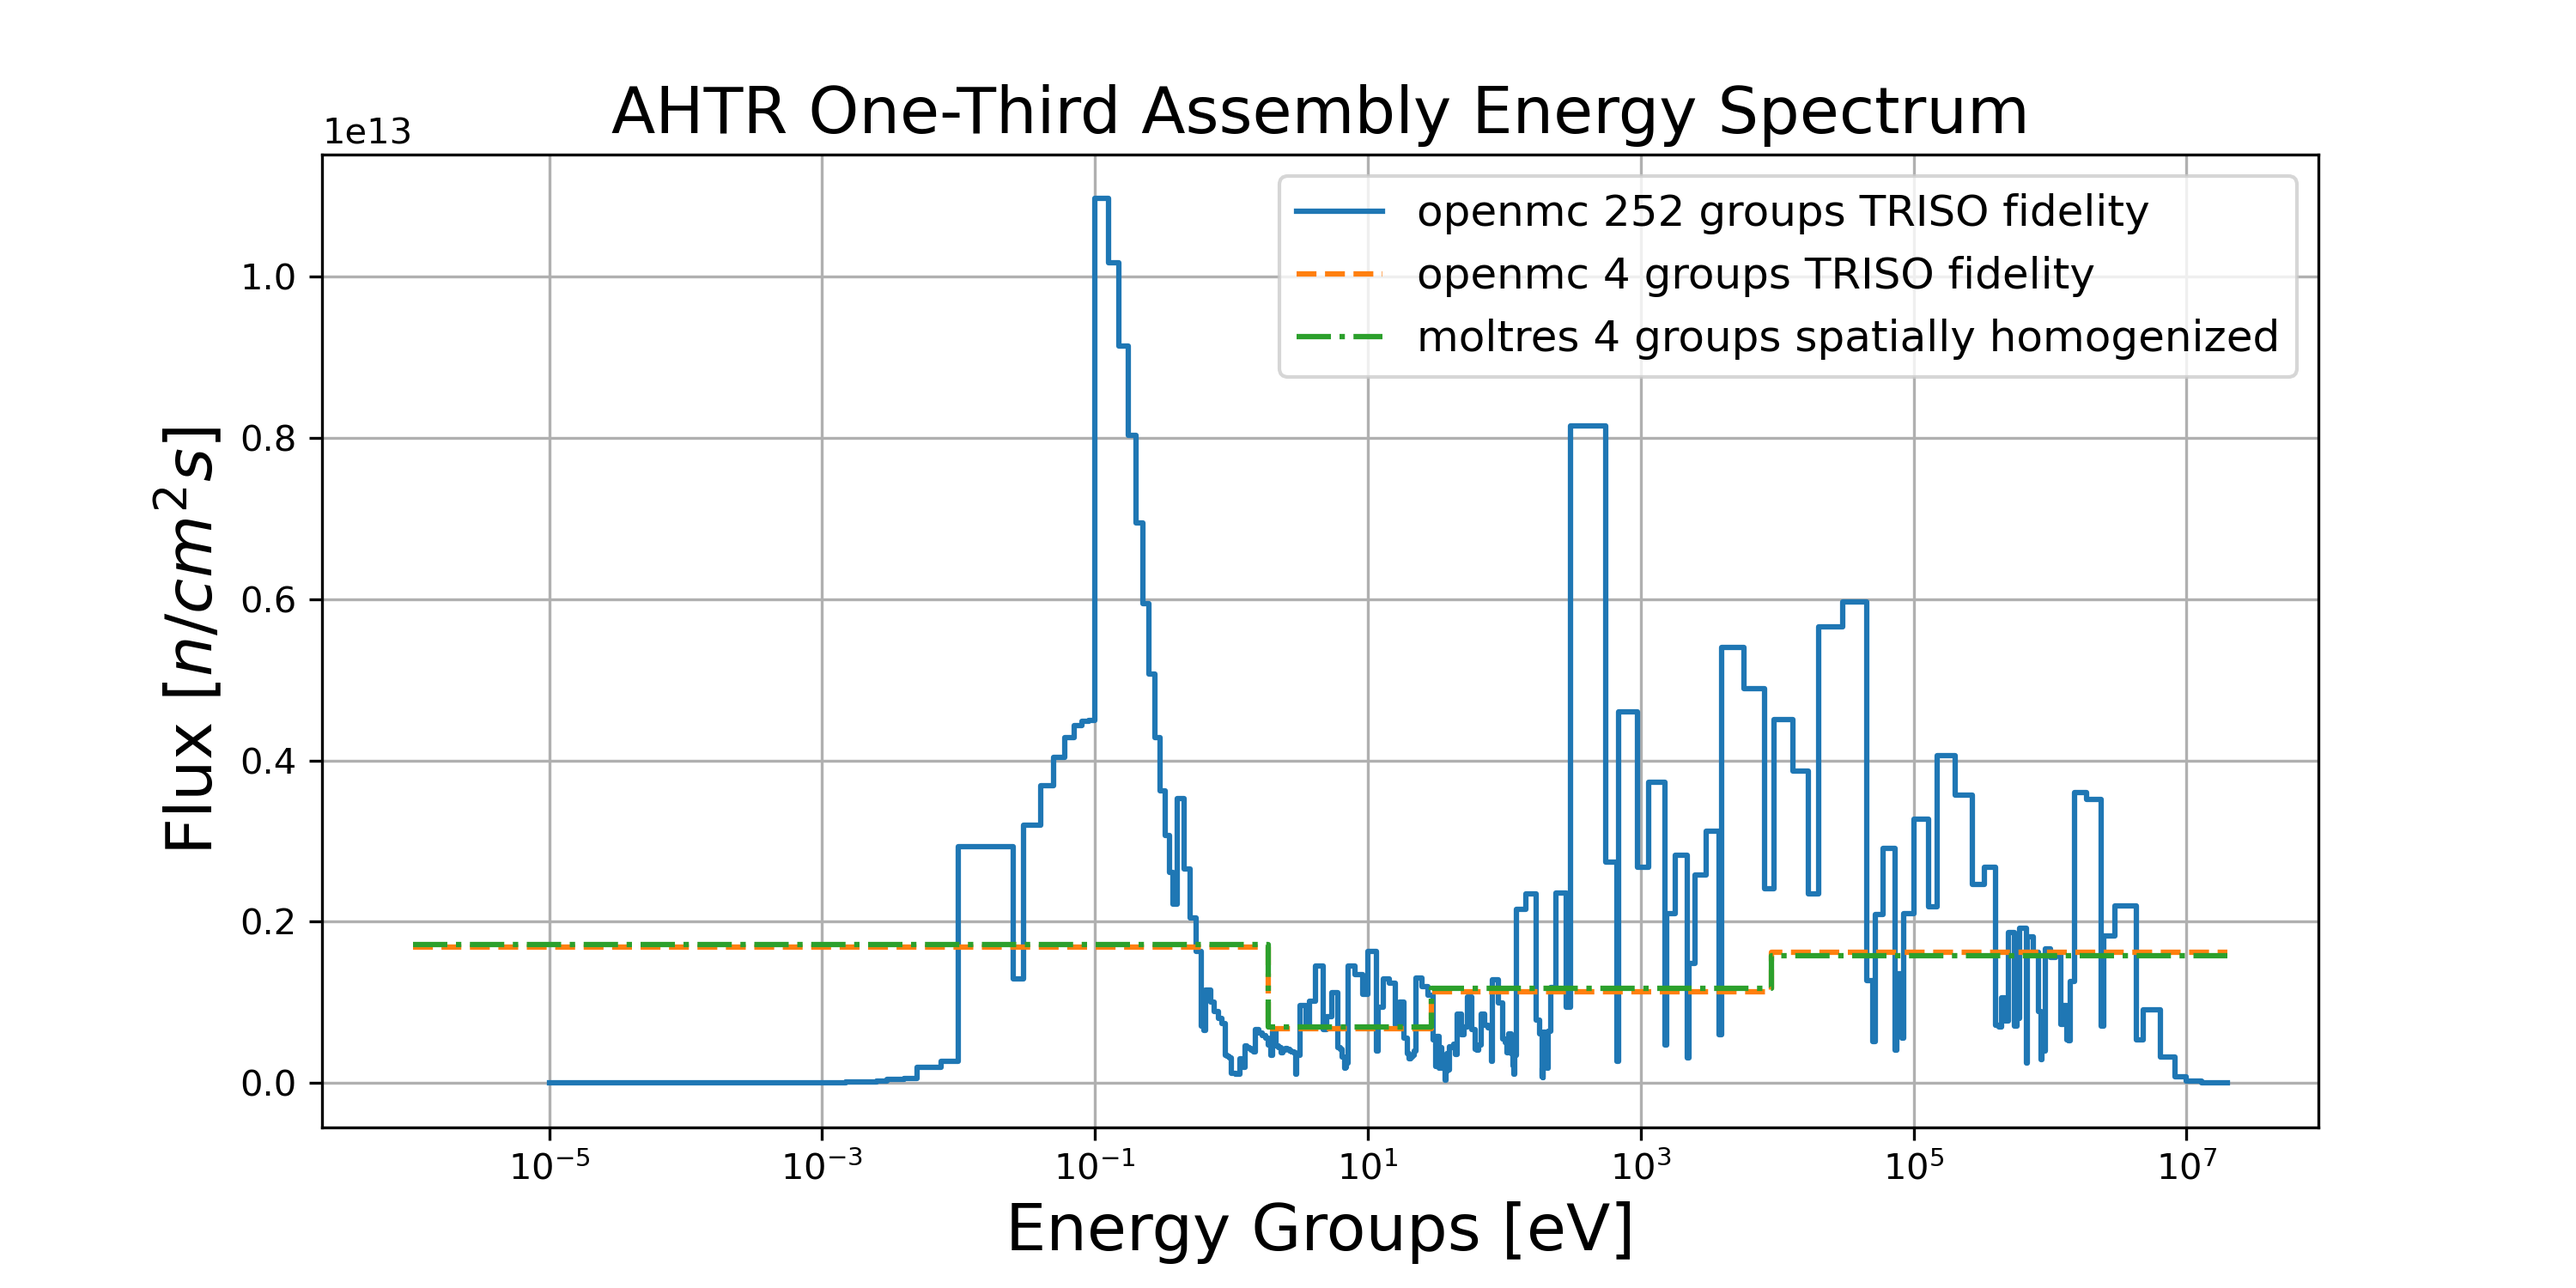
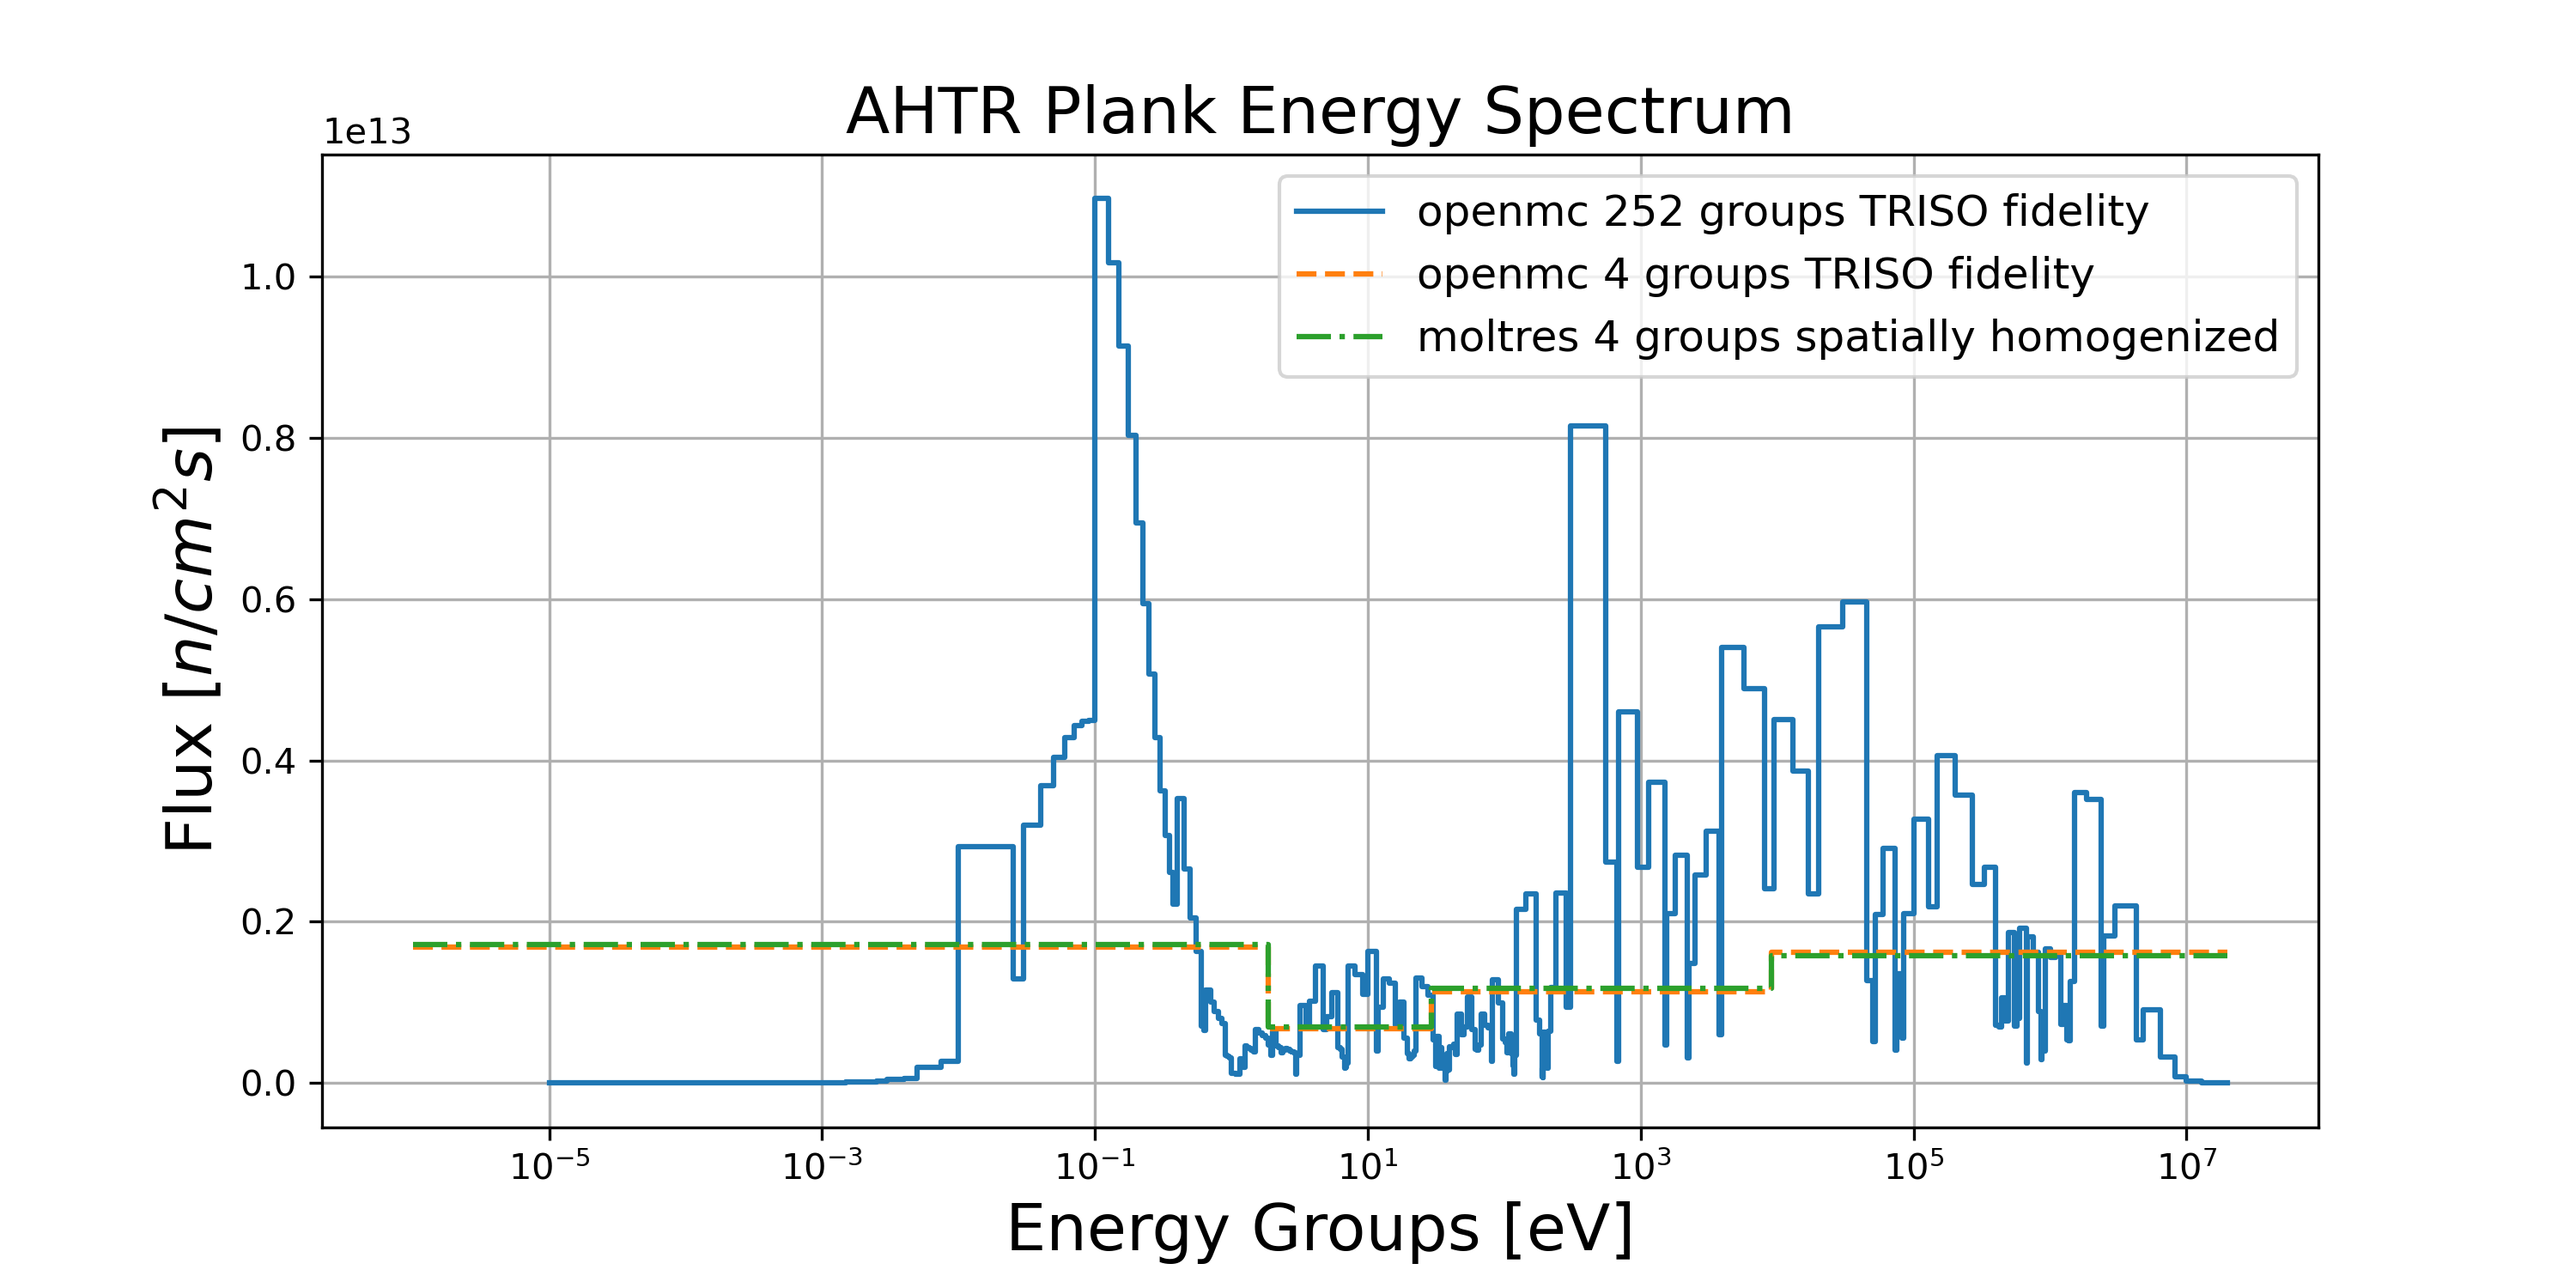
edits

Changed region(s): [[0.217, 0.0613, 0.775, 0.1227]]

diff --git a/docs/method.tex b/docs/method.tex
@@ -614,7 +614,8 @@ and one-third assembly.
         \label{fig:ahtr-assem-geo} 
     \end{subfigure}
     \caption{Examples of Gmsh rendered geometry files generated by the geometry scripts.
-    Both geometry files have varying \gls{FLiBe} coolant channel shapes.}
+    These geometry files are meshed using Gmsh, and the mesh files are used in the Moltres 
+    temperature models.}
 \end{figure}
 
 \subsubsection{AHTR Moltres Temperature Model}
@@ -783,9 +784,10 @@ PF_j &= \mbox{fuel packing fraction at position j} \nonumber
 
 \section{AHTR Moltres Model Verification}
 \label{sec:ahtr_model_verification}
-In this section, I conduct \gls{AHTR} Moltres model verification for key neutronics parameters.
-I set up a criticality eigenvalue problem in Moltres and calculated key neutronics parameters 
-using group constants data from OpenMC. 
+In this section, I conduct \gls{AHTR} Moltres model verification for key neutronics 
+parameters.
+I set up a criticality eigenvalue problem in Moltres and calculated key neutronics 
+parameters using group constants data from OpenMC. 
 For both the \gls{AHTR} plank and one-third assembly models, I compare the key neutronics 
 parameters between two simulations:
 \begin{enumerate}
@@ -826,16 +828,21 @@ fidelity.
 
 \subsubsection{AHTR Plank: Effective Multiplication Factor}
 Table \ref{tab:keff_ahtr_moltres} compares effective multiplication factor 
-for OpenMC simulation with TRISO fidelity, OpenMC simulation using the homogenized 
-group constants, and Moltres simulation using the homogenized group constants. 
-I included results from a homogenized OpenMC simulation to 
-distinguish between differences caused by spatial homogenization, and differing 
-OpenMC and Moltres solve methods. 
+for OpenMC simulation with continuous energy and TRISO-level spatial fidelity, 
+OpenMC simulation with 4-group energy and spatial homogenization, 
+and Moltres simulation with 4-group energy and spatial homogenization.
+I included results from the homogenized OpenMC simulation to 
+distinguish between differences caused by spatial homogenization and energy 
+discretization, or differing OpenMC and Moltres solve methods. 
 \begin{table}[htbp]
     \centering
     \onehalfspacing
-    \caption{AHTR plank's $k_{eff}$ values from OpenMC and Moltres at 948K.
-    The normalized difference is the pcm difference normalized by $k_{eff}$.}
+    \caption{\acrfull{AHTR} plank's $k_{eff}$ values from the OpenMC simulation with 
+    continuous energy and TRISO-level spatial fidelity, OpenMC simulation with 4-group 
+    energy and spatial homogenization, and Moltres simulation with 4-group energy and 
+    spatial homogenization. All simulations are at 948K.
+    The normalized difference is the pcm difference normalized by OpenMC non-homogenized 
+    model's $k_{eff}$.}
 	\label{tab:keff_ahtr_moltres}
     \footnotesize
     \begin{tabular}{lllcc}
@@ -872,12 +879,16 @@ I calculated the temperature reactivity coefficients using Equation
 Temperature reactivity feedback arises mainly from Doppler broadening of 
 resonance absorption peaks and thermal expansion.
 Table \ref{tab:ahtr_plank_moltres_coeffs} also shows that the total temperature 
-coefficients from OpenMC and Moltres show good agreement with a discrepancy of 0.23 pcm/K.
+coefficients from OpenMC and Moltres have good agreement with a discrepancy of 
+0.23 pcm/K.
 \begin{table}[htbp]
     \centering
     \onehalfspacing
-    \caption{AHTR Fuel Plank's $\beta_{eff}$ values from OpenMC and Moltres at 948K, and 
-    total reactivity coefficient values calculated from OpenMC and Moltres at 948K and 1100K.}
+    \caption{AHTR Fuel Plank's $\beta_{eff}$ values from OpenMC and Moltres simulations 
+    at 948K, and total reactivity coefficient values calculated from OpenMC and Moltres 
+    at 948K and 1100K.
+    The OpenMC simulation has continuous energy and TRISO-level spatial fidelity and
+    Moltres simulation has 4-group energy and spatial homogenization.}
 	\label{tab:ahtr_plank_moltres_coeffs}
     \footnotesize
     \begin{tabular}{llllll}
@@ -948,23 +959,33 @@ accuracy using OpenMC's group constant data for the \gls{AHTR} plank model.
 This section compares the following key neutronics parameters: effective multiplication 
 factor, reactivity coefficients, flux distribution, and neutron energy spectrum for the 
 \gls{AHTR} one-third assembly model. 
-For this verification study, I used an AHTR one-third assembly model with a constant 0.0979 total 
-packing fraction across all fuel cells.  
+For this verification study, I used an AHTR one-third assembly model with a constant 
+0.0979 total packing fraction across all fuel cells.  
 Figure \ref{fig:ahtr-assem-verification} shows the \gls{AHTR} one-third assembly 
 model with TRISO-level fidelity.
 \begin{figure}[htbp]
     \centering
-    \includegraphics[width=0.6\linewidth]{assem-constant-0.0979-verification.png}
-    \resizebox{0.3\textwidth}{!}{
-        \hspace{1cm}
+    \begin{subfigure}{.7\textwidth}
+    \includegraphics[width=\linewidth]{assem-constant-0.0979-verification.png}
+    \end{subfigure}%
+    \begin{subfigure}{.3\textwidth}
+        \begin{tikzpicture}
+            \draw[ thick,-latex] (0,0) -- (1,0) node[anchor=south west] {$x$};
+            \draw[ thick,-latex] (0,0) -- (0,1) node[anchor=south west] {$y$};
+            \draw[ thick,-latex] (0,0) -- (1,1) node[anchor=south west] {$z$};
+           \tkzText[above](-0.3,-0.7){}
+        \end{tikzpicture} 
+        \vspace{1cm}
         \fbox{\begin{tabular}{ll}
-            \textcolor{fhrblue}{$\blacksquare$} & \gls{FLiBe} Coolant\\
-            \textcolor{fhrgrey}{$\blacksquare$} & Graphite (Structure) \\
+            \textcolor{fhrblue}{$\blacksquare$} & \gls{FLiBe} \\
+            \textcolor{fhrgrey}{$\blacksquare$} & Graphite (Structure)\\
             \textcolor{fhrred}{$\blacksquare$} & Graphite (Fuel Plank) \\
             \textcolor{fhrblack}{$\blacksquare$} & TRISO particle 
-        \end{tabular}}}
-    \caption{AHTR one-third assembly geometry and packing fraction distribution used for AHTR 
-    one-third assembly's key neutronics parameters verification. 
+            \end{tabular}}
+    \end{subfigure}
+    \caption{AHTR one-third assembly geometry with a constant 0.0979 total packing 
+    fraction across all fuel cells used for AHTR one-third assembly's key neutronics 
+    parameters verification. 
     The white line corresponds to the centerline where flux distribution is measured. }  
     \label{fig:ahtr-assem-verification}
 \end{figure}
